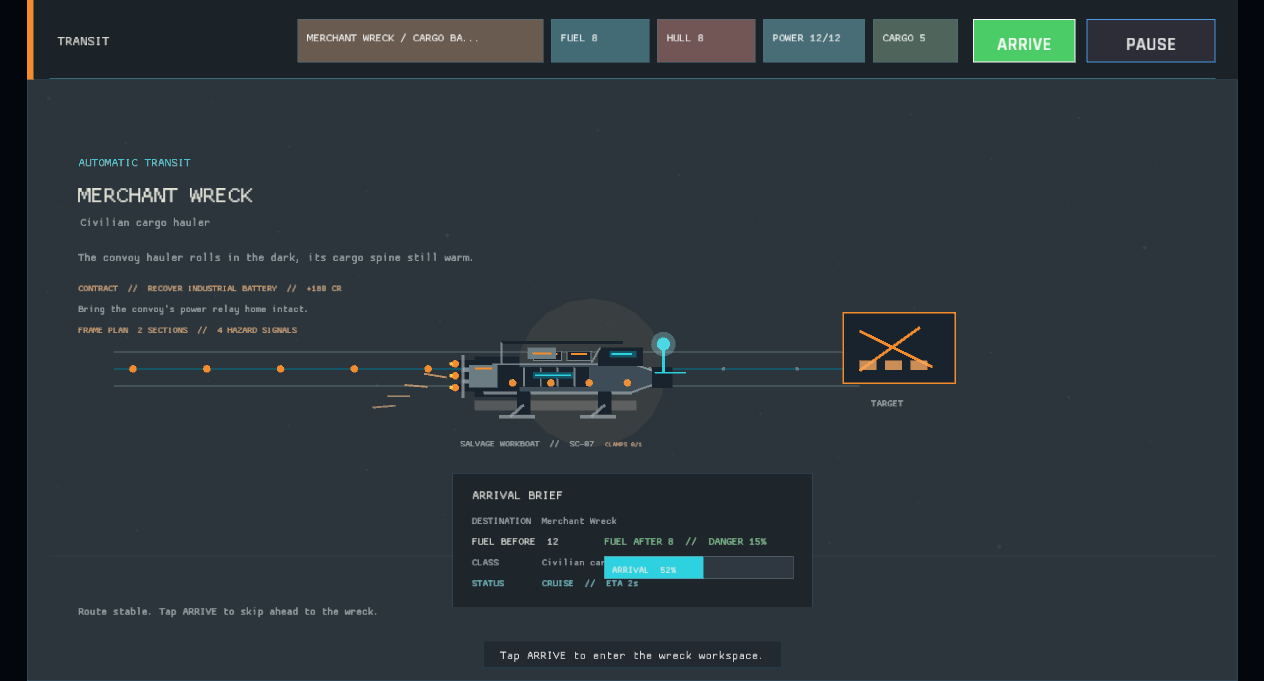
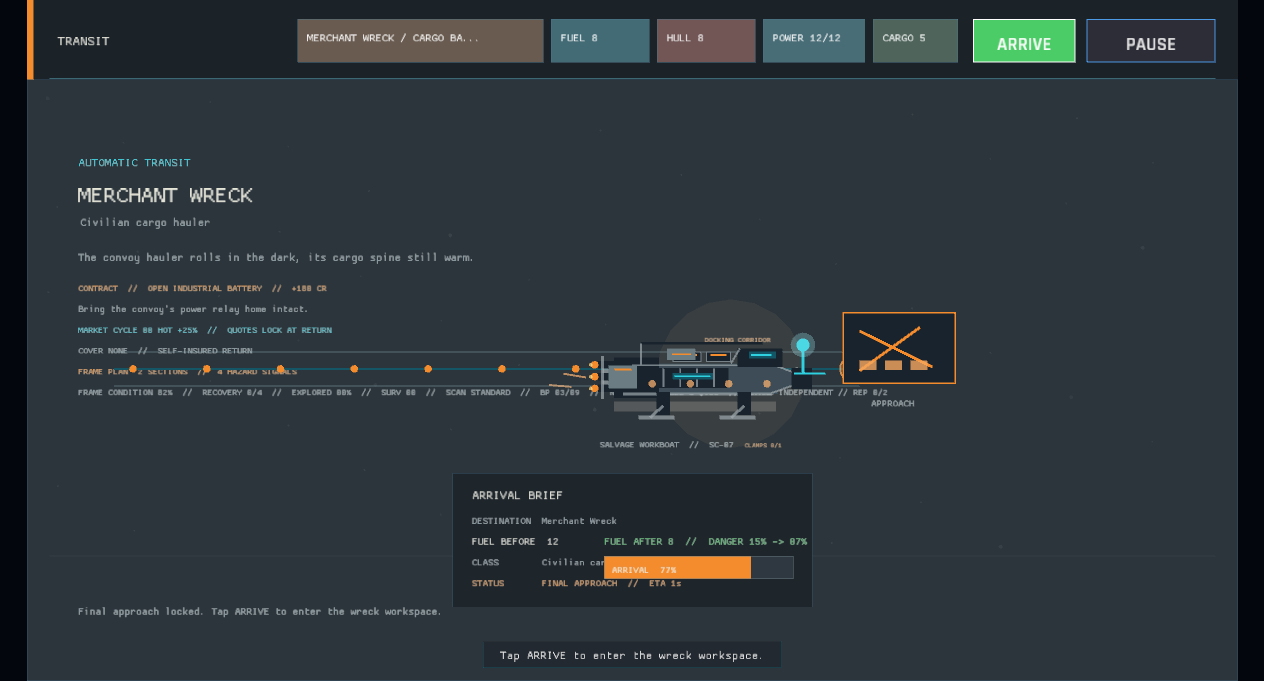
The approach line carries the clearer route into docking (transit danger forecast)
The arrival brief now distinguishes authored site danger from the reconnaissance-adjusted route danger, so a paid route brief remains legible during automatic transit. The cruise capture demonstrates the reduced 15% to 07% forecast before arrival.

diff --git a/src/ui/travel.rs b/src/ui/travel.rs
@@ -213,13 +213,14 @@ pub fn draw_travel(ctx: &UiContext<'_>, _actions: &mut Vec<UiAction>) {
     );
     draw_text(
         format!(
-            "FUEL AFTER {}  //  DANGER {:02}%",
-            ctx.session.economy.fuel, site.danger
+            "FUEL AFTER {}  //  {}",
+            ctx.session.economy.fuel,
+            travel_danger_label(site, ctx.session, ctx.data)
         ),
         brief.x + 160.0,
         brief.y + 76.0,
         14.0,
-        danger_color(site.danger),
+        danger_color(travel_departure_danger(site, ctx.session, ctx.data)),
     );
     draw_text(
         format!("CLASS        {}", site.wreck_class),
@@ -374,6 +375,32 @@ fn travel_coverage_label(
             )
         },
     )
+}
+
+fn travel_departure_danger(
+    site: &crate::data::SiteData,
+    session: &GameSession,
+    data: &GameData,
+) -> i32 {
+    crate::engine::danger_after_intel(
+        site.danger,
+        session.reconnaissance_level(&site.id),
+        &data.config.reconnaissance,
+    )
+}
+
+fn travel_danger_label(
+    site: &crate::data::SiteData,
+    session: &GameSession,
+    data: &GameData,
+) -> String {
+    let route_danger = travel_departure_danger(site, session, data);
+    let level = session.reconnaissance_level(&site.id);
+    if level == 0 {
+        format!("DANGER {:02}%", site.danger)
+    } else {
+        format!("DANGER {:02}% -> {:02}%", site.danger, route_danger)
+    }
 }
 
 fn travel_phase_color(phase: TravelPhase) -> Color {

diff --git a/src/ui/travel/tests.rs b/src/ui/travel/tests.rs
@@ -108,6 +108,23 @@ fn transit_brief_carries_the_active_coverage_decision() {
 }
 
 #[test]
+fn arrival_brief_shows_the_reconnaissance_adjusted_route_danger() {
+    let data = crate::data::GameData::load().unwrap();
+    let site = data.sites.get("merchant_wreck").unwrap();
+    let mut session = GameSession::new(&data);
+    session
+        .site_progress
+        .get_mut("merchant_wreck")
+        .unwrap()
+        .reconnaissance_level = 1;
+
+    assert_eq!(
+        travel_danger_label(site, &session, &data),
+        "DANGER 15% -> 07%"
+    );
+}
+
+#[test]
 fn travel_instructions_name_the_visible_next_control() {
     assert!(travel_instruction(TravelPhase::Cruise).contains("ARRIVE"));
     assert!(travel_instruction(TravelPhase::Docked).contains("CONTINUE"));

diff --git a/src/game/capture.rs b/src/game/capture.rs
@@ -226,6 +226,9 @@ impl Game {
                 GameState::Travel
             }
             "travel_cruise" => {
+                let _ = self
+                    .session
+                    .buy_reconnaissance("merchant_wreck", &self.data);
                 let _ = self.session.begin_expedition("merchant_wreck", &self.data);
                 self.travel_elapsed = 1.6;
                 GameState::Travel
